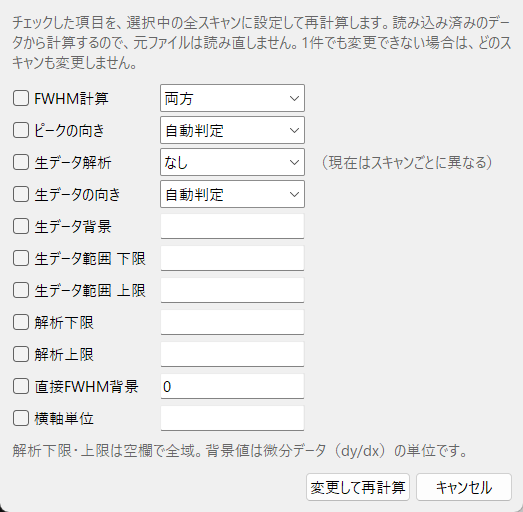
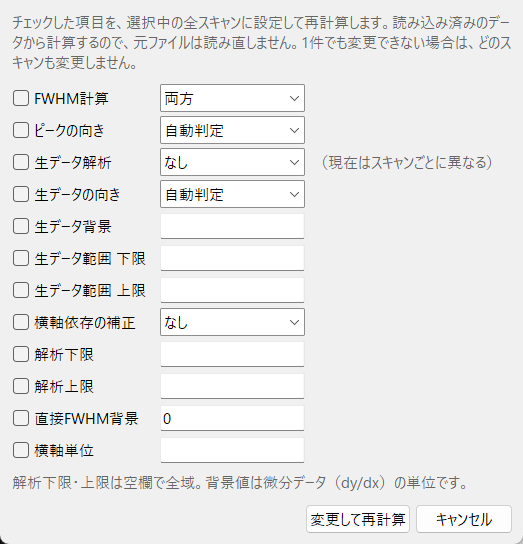
Update for 2.2: header-style files, column ratio, X-dependent correction; new synthetic samples

diff --git a/manual/index.html b/manual/index.html
@@ -88,7 +88,7 @@
 <table>
   <tr><th>タブ</th><th>主なボタン</th></tr>
   <tr><td>ホーム</td><td>ファイル選択、スキャン追加・更新・削除、セッションを開く・保存、画像・CSV保存</td></tr>
-  <tr><td>解析</td><td>選択中のスキャンの FWHM計算・ピークの向き・生データ解析の変更、一括変更、グラフで範囲を指定・範囲を全域に、スキャン値、順番・色・名前</td></tr>
+  <tr><td>解析</td><td>選択中のスキャンの FWHM計算・ピークの向き・生データ解析の変更、一括変更、補正を設定、グラフで範囲を指定・範囲を全域に、スキャン値、順番・色・名前</td></tr>
   <tr><td>表示</td><td>表示モード（両方／生データ／微分データ）、凡例、網掛け、表示範囲、ピーク中心で比較</td></tr>
   <tr><td>トレンド</td><td>トレンドの表示、縦軸の解析値、誤差棒、トレンドCSV・画像</td></tr>
   <tr><td>ヘルプ</td><td>このマニュアルの各章、バージョン情報</td></tr>
@@ -138,6 +138,11 @@
 <ul>
   <li>位置と複数チャンネルが1つのファイルに入ったデータ（例：<code>POS1, Ch0, Ch1, …</code>）。</li>
   <li>区切り（カンマ・タブ・空白）と列名の行は自動で判定します。<code>#</code> で始まる行と空行は読み飛ばします。</li>
+  <li><strong>ヘッダーつきの測定ファイル</strong>（装置情報などの前置き、測定条件の小さな表、列名の下の Mode・Offset 行などがあるもの。例：KEK-PF BL11B の E-yield ファイル）も読めます。
+    ファイル中で最も長く続く数値の表をデータとし、その直前の行のうち列数が同じで文字の項目が最も多い行を列名にします。Offset 行などは読み飛ばし、数値はファイルの値のまま使います（BL11B のファイルでは、各データ列はすでに Offset を差し引いた値です）。
+    データの途中に文字の行があるとエラーです（データの後に別の表が続く場合も同じ）。</li>
+  <li>実測の横軸の列（例：Energy(o)）は値が前後して微分できないことがあります。その場合は設定値の列（例：Energy(c)）を横軸にしてください。</li>
+  <li><strong>縦軸 ÷ 列</strong>：同じファイルの別の列で縦軸を割ります（例：信号 ÷ 入射強度 I0）。割る列に0の点があるとエラーです。列の選択と同じく、変更したら［選択を更新］で読み直します。</li>
   <li>横軸列・縦軸列は列名のプルダウンで選びます。既定は、横軸が POS で始まる列（なければ1列目）、縦軸が値の変化幅の最も大きい列です。</li>
   <li>別のファイルを選んでも、同じ列名があれば選んだ列を保ちます。</li>
 </ul>
@@ -147,6 +152,19 @@
   <li>数値：指数表記 e/E と d/D に対応。列数の不一致、数値以外、NaN、無限大はエラーにします（行番号を表示）。</li>
   <li>横軸は昇順でも降順でも構いません（降順のまま解析し、昇順と同じ結果になります）。</li>
   <li><strong>名前</strong>：空欄なら自動で付けます。<strong>スキャン値</strong>：トレンドの横軸に使う数値。空欄ならファイル名の最後の数値（例：<code>HeightScan_160</code> → 160）。<strong>横軸単位</strong>：グラフと詳細に表示します（単位換算はしません）。</li>
+</ul>
+<h3 id="correction">横軸に依存する倍率の補正</h3>
+<p>1列目が横軸、2列目が倍率の<strong>補正ファイル</strong>を使って、データの各点を補正します（例：検出効率の補正、入射強度の曲線での規格化）。</p>
+<ul>
+  <li>補正ファイルは1ファイル形式と同じ書式で読みます（ヘッダー・カンマ・タブ・空白）。横軸の順番は問いません。同じ横軸の重複、NaN は不可です。</li>
+  <li>データの各点の横軸で倍率を<strong>線形補間</strong>し、<strong>倍率を掛ける</strong>か<strong>倍率で割る</strong>かを選べます。割る場合、倍率0の点があるとエラーです。</li>
+  <li>データの横軸が補正ファイルの範囲の<strong>外</strong>にはみ出すと<strong>エラー</strong>です（外挿はしません）。範囲を含む補正ファイルを使ってください。</li>
+  <li>新しく追加するスキャン：「データ」タブの「横軸依存の補正」と「補正ファイル」で指定してから［＋ スキャン追加］。</li>
+  <li>登録済みのスキャン：一覧で選び（複数可）、リボン「解析」の［補正を設定…］。読み込み済みのデータから再計算し、1件でも失敗したら何も変更しません。一括変更で「補正」を「なし」にすると補正を外せます（補正表は保持）。</li>
+  <li>補正後のデータで微分・FWHM・フィット・トレンドを計算し、生データのグラフも補正後を描きます（タイトルに「補正後」）。詳細欄に補正の内容（ファイル名、点数、範囲）を表示します。</li>
+  <li>補正表の値はセッションに保存されるので、補正ファイルがなくても開き直せます。CSV には読み込んだ値（<code>loaded_y</code>）と倍率（<code>correction_factor</code>）も出力します。</li>
+  <li>順番は「縦軸 ÷ 列」（読み込み時）→ 補正 → 解析です。</li>
+  <li><code>sample\synthetic_header_scan.dat</code>（ヘッダーつきの合成データ）と <code>sample\synthetic_correction.txt</code>（合成の補正ファイル）で試せます。</li>
 </ul>
 <div class="note">入力欄を書き換えただけでは、登録済みのスキャンは変わりません。新規登録は［＋ スキャン追加］、選択中の1件の変更は［選択を更新（再計算）］（元ファイルを読み直します）、複数の変更は<a href="#scans">一括変更</a>を使います。</div>
 
@@ -270,7 +288,7 @@
 <h2 id="session">セッション</h2>
 <p>［保存…］（<kbd>Ctrl</kbd>+<kbd>S</kbd>）で、現在の全スキャンを1つのファイル（拡張子 <code>.gscan</code>）に保存し、［開く…］（<kbd>Ctrl</kbd>+<kbd>O</kbd>）で開き直します。</p>
 <ul>
-  <li>保存される内容：各スキャンの読み込んだ元データ（ファイル内に埋め込み）、全設定（形式、ファイル名、列、解析条件・範囲、生データ解析・範囲、表示変換、表示／非表示、色、スキャン値、名前、一覧の順）、表示モード・凡例・網掛け、表示範囲、トレンドの設定、画像保存の設定、保存時の FWHM（照合用）。</li>
+  <li>保存される内容：各スキャンの読み込んだ元データ（ファイル内に埋め込み）、全設定（形式、ファイル名、列、縦軸÷列、解析条件・範囲、生データ解析・範囲、横軸依存の補正と補正表、表示変換、表示／非表示、色、スキャン値、名前、一覧の順）、表示モード・凡例・網掛け、表示範囲、トレンドの設定、画像保存の設定、保存時の FWHM（照合用）。</li>
   <li>元データを埋め込むので、元のファイルを移動・削除しても開けます。開くときは埋め込んだデータから再計算し、保存時の FWHM と一致しなければ警告します。</li>
   <li>スキャンがある状態で開くと「置き換え」「追加」「キャンセル」を選べます。EXE のアイコンに <code>.gscan</code> をドラッグ＆ドロップしても開けます（ファイルの関連付けはしません）。</li>
   <li>保存していない変更があるとタイトルの先頭に「*」が付き、閉じるときに確認します。保存は一時ファイル経由なので、失敗しても既存のファイルは壊れません。</li>
@@ -338,7 +356,7 @@
 <h2 id="license">利用条件</h2>
 <p>本ソフトウェアは無償で利用できます。改変せず、<code>LICENSE.txt</code> と <code>licenses</code> フォルダを同梱すれば再配布できます。改変・逆コンパイルは禁止です。<strong>無保証であり、利用によって生じたいかなる損害についても作者は一切の責任を負いません。</strong>詳しくは配布元の <code>LICENSE.txt</code> を参照してください。</p>
 <p>EXE には Python、Tcl/Tk、NumPy、SciPy、Matplotlib などの第三者のソフトウェアが含まれ、それぞれのライセンス（<code>licenses</code> フォルダ）が適用されます。</p>
-<p class="muted">このマニュアルは Gaussian Scan 2.1 に対応しています。</p>
+<p class="muted">このマニュアルは Gaussian Scan 2.2 に対応しています。</p>
 </main>
 </body>
 </html>
